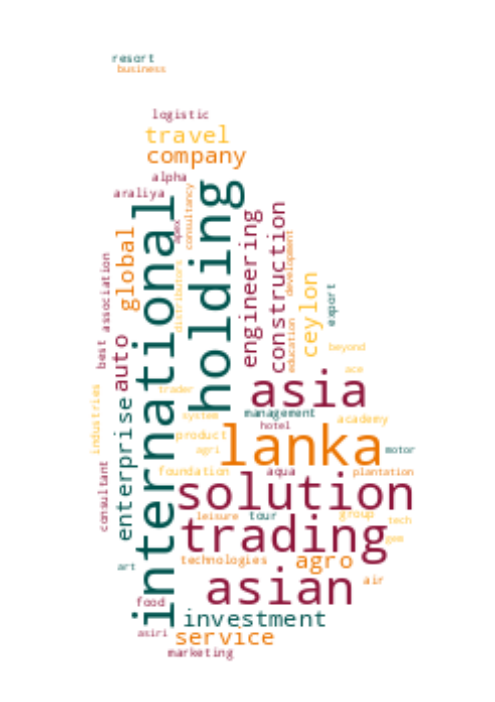
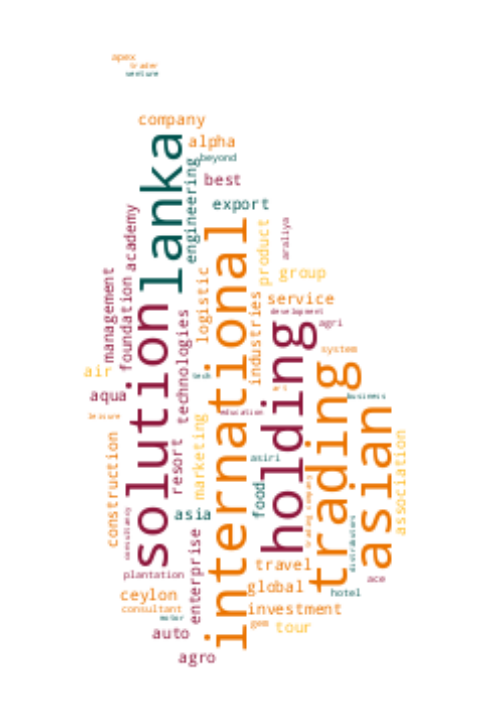
pipeline Sun Dec  3 16:50:14 UTC 2023

Changed region(s): [[0.1515, 0.1496, 0.8485, 0.9573], [0.2121, 0.0598, 0.3333, 0.1197]]

diff --git a/README.md b/README.md
@@ -4,40 +4,40 @@ Data Scraped from Registrar of Companies - Sri Lanka (https://eroc.drc.gov.lk)
 
 ![word-cloud](data/word_cloud.png)
 
-Scraped **11,729** Companies as of *2023-12-03 22:07:29*.
+Scraped **11,777** Companies as of *2023-12-03 22:20:13*.
 
 ## List of 30 Random Companies
 
-* ACCESS WORKSPACE COLOMBO - PV106911
-* ACCIVA HOLDINGS - PV115639
-* ADROITLOGIC LANKA - PV88630
-* AGRO FARM INTERNATIONAL - PV00277772
-* ALCATEL LUCENT INTERNATIONAL - NF682
-* ALDTAN - PV00275107
-* ALLIANCE ONE - PV131275
-* ALMADA INTERNATIONAL - PV00240095
-* ALOKA FASHION - PV00265992
-* ALPHA WEALTH - PV60755PB
-* AMBIENT CREATIONS - PV00224191
-* ANAAWEI HOLDINGS - PV00232174
-* ANANDA LANKA - PV90111
-* ANDRY ALUMINIUM INDUSTRY - PV85404
-* ANU PROPERTIES & INVESTMENTS - PV00222168
-* APEX CONSULTANCY SERVICES - PV3835
-* ARABIC CUZZINS RESTAURANT - PV127754
-* ARMSTRONG PRODUCTS - PV86588
-* ARPICO INSURANCE - PB4739PQ
-* ASHA MANSION - PV116259
-* ASIA PACIFIC TRADE ALLIANCE (APTA) - GA00277820
-* ASIABIKE INDUSTRIAL - PB1373
-* ASSET MARKETING - PV84230
-* AURA SALON & ACADEMY - PV00240704
-* AVOGA TRAVELS - PV113879
-* AVOMEC ENGINEERING - PV111673
-* BELIATTA TRADINGS - PV00207758
-* BENE LABS HOLDINGS - PV130339
-* BEOBY INSPIRE - PV00225337
-* BEST CREATIVE HOLDINGS - PV131569
+* AARCHANA AKURUGODA - PV00270801
+* AAYU CEYLON HERBAL DRUGS - PV00238443
+* AGE HOLDINGS - PV74320
+* AGRO TECH GLOBAL - PV00244098
+* AIR GLOBAL TRAVELS - PV70806
+* AIR WATER LANKA - PV9985
+* AITKEN SPENCE PLANTATION MANAGEMENTS - PB1196PQ
+* AKEED TRADERS - PV00282793
+* AKHTARI INDUSTRIES - PV66924
+* ALHEWANA TEA FACTORY - PV79644
+* ALLIANCE MEDIA COMPANY - PV83709
+* AMARAWEERA  HOLDINGS - PV00240295
+* AMASHI SPA - PV63949
+* AMRA BUILDERS LANKA - PV00276119
+* AQUA MASTERS TECHNOLOGIES - PV00256442
+* ARABIA GLOBAL SERVICES - PV00210737
+* ASIAN FREIGHT AND LOGISTICS - PV115459
+* ASIRI CONSTRUCTORS - PV14530
+* ASSOCIATED CEYLON FOODS - PV00236764
+* ASTTRUM TECHNOLOGIES - PV00286249
+* ATMAAN STUDIO - PV00235421
+* AURORA VENTURES GREENTECH - PV00209407
+* AUSLANKA RECRUITMENT - PV60468
+* AYODHYA CLEARING & FORWARDING - PV00254062
+* AZAR HOLDINGS - PV103389
+* BAUDDHA LOKA COLLEGE - PV00264906
+* BAYAT AL-AJAIB COMPANY - PV121613
+* BELFA GROUP - PV68049
+* BELLISSIMO INTERNATIONAL - PV00226238
+* BHAGYA TRUST INVESTMENT - PV98212
 
 ## List of Early Registrations
 
